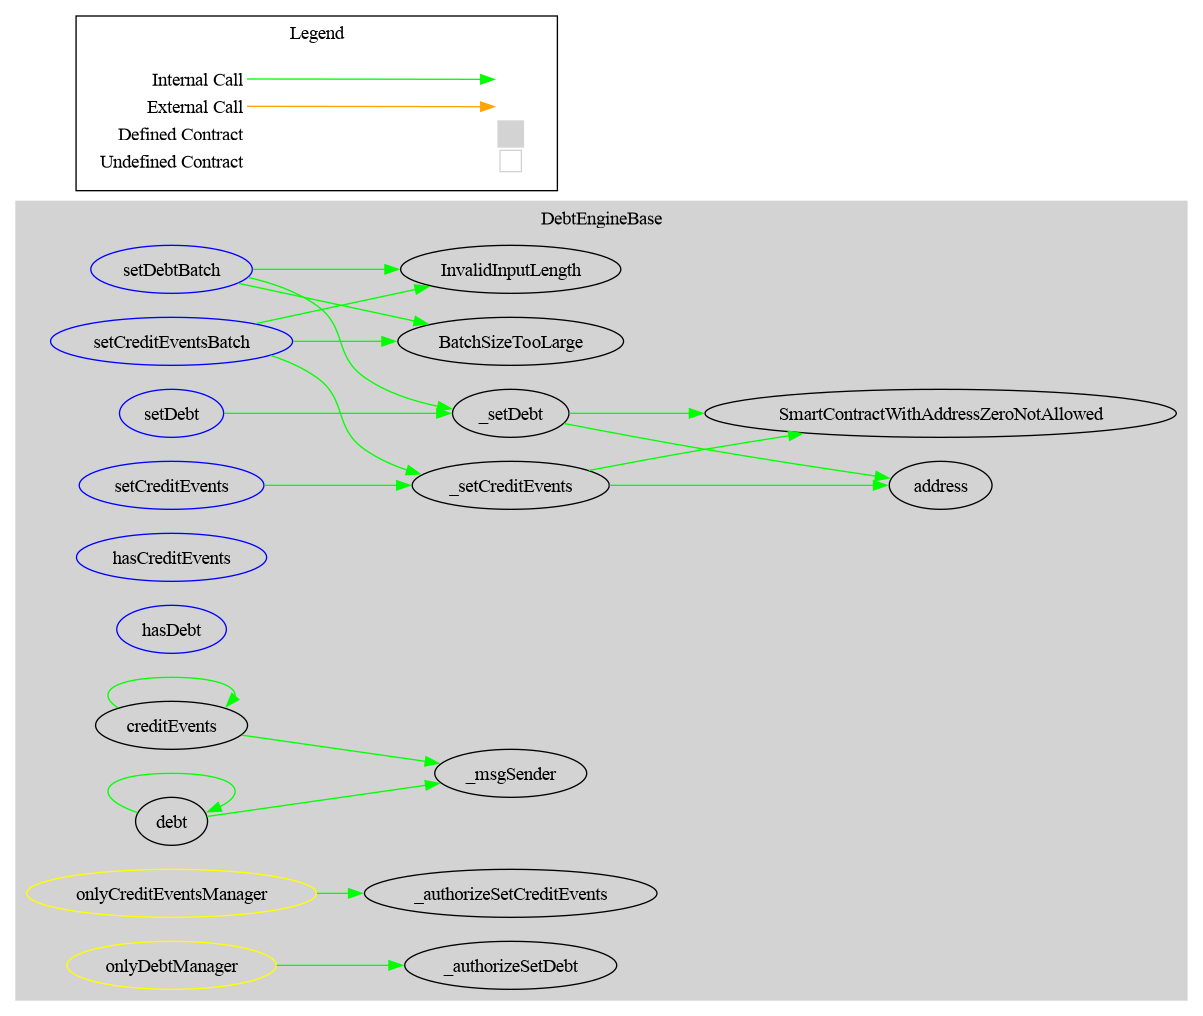
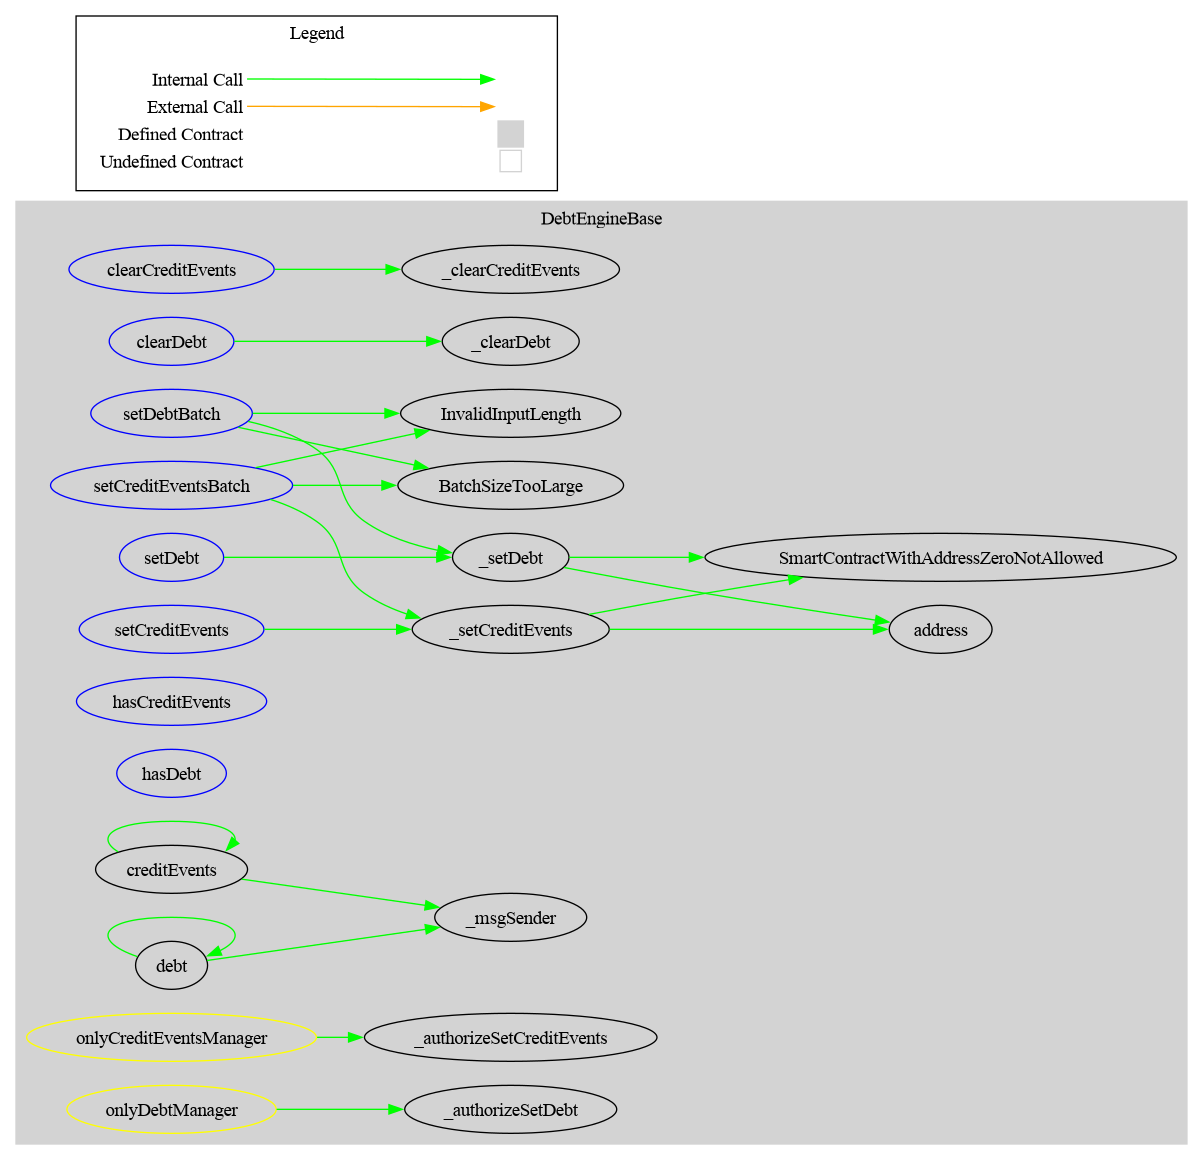
feat: add clearDebt and clearCreditEvents to delete a record and reset its has flag

diff --git a/README.md b/README.md
@@ -74,17 +74,19 @@ The DebtEngine uses a layered architecture:
 | `debt(address)` | Public | Public | Returns debt for a specific contract |
 | `creditEvents()` | External | Public | Returns credit events for the caller's contract |
 | `creditEvents(address)` | Public | Public | Returns credit events for a specific contract |
-| `hasDebt(address)` | External | Public | Returns true if debt has been explicitly set |
-| `hasCreditEvents(address)` | External | Public | Returns true if credit events have been explicitly set |
+| `hasDebt(address)` | External | Public | Returns true if a debt record is currently set (false again after `clearDebt`) |
+| `hasCreditEvents(address)` | External | Public | Returns true if credit events are currently set (false again after `clearCreditEvents`) |
 | `setDebt(address, DebtInformation)` | External | Authorized | Set debt for a contract |
 | `setCreditEvents(address, CreditEvents)` | External | Authorized | Set credit events for a contract |
 | `setDebtBatch(address[], DebtInformation[])` | External | Authorized | Set debt for multiple contracts (at most `MAX_BATCH_SIZE`) |
 | `setCreditEventsBatch(address[], CreditEvents[])` | External | Authorized | Set credit events for multiple contracts (at most `MAX_BATCH_SIZE`) |
+| `clearDebt(address)` | External | Authorized | Delete the debt record of a contract; `hasDebt` returns false and `debt` returns the zero struct |
+| `clearCreditEvents(address)` | External | Authorized | Delete the credit events of a contract; `hasCreditEvents` returns false and `creditEvents` returns the zero struct |
 | `MAX_BATCH_SIZE()` | Public | Public | Hard ceiling on batch entries (500) |
 | `version()` | Public | Public | Contract version (`"0.3.0"`) |
 | `supportsInterface(bytes4)` | Public | Public | ERC-165: `IAccessControlEnumerable` / `IAccessControl` (RBAC variant), ERC-173 (Ownable variant), ERC-165 |
 
-All public and external functions are `virtual`. Every write goes through one internal function per record type (`_setDebt`, `_setCreditEvents`), which rejects `address(0)`, stores the record, sets the `has*` flag and emits the event.
+All public and external functions are `virtual`. Every write goes through one internal function per record type (`_setDebt`, `_setCreditEvents`), which rejects `address(0)`, stores the record, sets the `has*` flag and emits the event. Every delete goes through `_clearDebt` / `_clearCreditEvents`, which removes the record and its `has*` flag and emits the `*Cleared` event; clearing a contract that has no record succeeds and still emits the event. A CMTAT token pointing at the engine reads an empty record after a clear, the same as before its record was set.
 
 > **Batch size in practice:** `MAX_BATCH_SIZE` is a ceiling, not a target. Each entry writes its whole struct to storage. In the test suite a debt record with typical strings costs about 400k gas and a short credit-events record about 71k, so under the Ethereum mainnet per-transaction cap of 16,777,216 gas (EIP-7825) a batch holds roughly 40 debt records or 230 credit-events records. Estimate gas for your actual data before sending a batch.
 
@@ -94,6 +96,8 @@ All public and external functions are `virtual`. Every write goes through one in
 | --- | --- |
 | `DebtSet(address indexed smartContract)` | Debt is set or updated for a contract |
 | `CreditEventsSet(address indexed smartContract)` | Credit events are set or updated for a contract |
+| `DebtCleared(address indexed smartContract)` | The debt record of a contract is deleted |
+| `CreditEventsCleared(address indexed smartContract)` | The credit events of a contract are deleted |
 
 ## Access Control
 
@@ -101,8 +105,8 @@ Authorization is pluggable via two `internal view virtual` hooks (`_authorizeSet
 
 | Capability | Functions | Hook | `DebtEngineAccessControl` | `DebtEngineOwnable` |
 | --- | --- | --- | --- | --- |
-| Debt management | `setDebt`, `setDebtBatch` | `_authorizeSetDebt` | `DEBT_MANAGER_ROLE` (or `DEFAULT_ADMIN_ROLE`) | owner |
-| Credit-events management | `setCreditEvents`, `setCreditEventsBatch` | `_authorizeSetCreditEvents` | `CREDIT_EVENTS_MANAGER_ROLE` (or `DEFAULT_ADMIN_ROLE`) | owner |
+| Debt management | `setDebt`, `setDebtBatch`, `clearDebt` | `_authorizeSetDebt` | `DEBT_MANAGER_ROLE` (or `DEFAULT_ADMIN_ROLE`) | owner |
+| Credit-events management | `setCreditEvents`, `setCreditEventsBatch`, `clearCreditEvents` | `_authorizeSetCreditEvents` | `CREDIT_EVENTS_MANAGER_ROLE` (or `DEFAULT_ADMIN_ROLE`) | owner |
 
 The variant is chosen at deployment: the two contracts are not interchangeable at a deployed address, and the policy cannot be swapped afterwards. The pattern makes access control pluggable, not more decentralised: a single admin or owner key can still rewrite every debt and credit-event record.
 
@@ -194,8 +198,12 @@ This interface can be found in [CMTAT/contracts/interfaces/engine/IDebtEngine.so
 | └ | setCreditEvents | External ❗ | 🛑  | onlyCreditEventsManager |
 | └ | setCreditEventsBatch | External ❗ | 🛑  | onlyCreditEventsManager |
 | └ | setDebtBatch | External ❗ | 🛑  | onlyDebtManager |
+| └ | clearDebt | External ❗ | 🛑  | onlyDebtManager |
+| └ | clearCreditEvents | External ❗ | 🛑  | onlyCreditEventsManager |
 | └ | _setDebt | Internal 🔒 | 🛑  | |
 | └ | _setCreditEvents | Internal 🔒 | 🛑  | |
+| └ | _clearDebt | Internal 🔒 | 🛑  | |
+| └ | _clearCreditEvents | Internal 🔒 | 🛑  | |
 | └ | _authorizeSetDebt | Internal 🔒 |   | |
 | └ | _authorizeSetCreditEvents | Internal 🔒 |   | |
 | └ | _msgSender | Internal 🔒 |   | |

diff --git a/AGENTS.md b/AGENTS.md
@@ -29,7 +29,7 @@
 > - **Exception: tests.** `test/` is never deployed and exists to serve the suite, so a pointer to the page explaining what a test stands in for is useful and costs nothing.
 > - **Exception: official audits by an audit company**, cited by **bare filename and finding ID** (e.g. `Halborn-2024-Q3.pdf` H-03, `OpenZeppelin-audit.md` M-2). An external audit is an immutable historical record, the bare filename survives the file being moved, and the ID gives a reviewer context a comment cannot restate. Never cite it by path.
 > - **The audit exception does not cover AI-assisted reviews.** A report written with an AI assistant is a working document that is rewritten as the code changes, not a record; treat it like any other documentation. Agent guides (`CLAUDE.md` / `AGENTS.md`), changelogs and audit overviews may cite these reports freely: they are not deployed.
-> - **The link between code and AI findings lives in `doc/tools/CLAUDE_ANALYSIS_SUMMARY.md`**, next to the project's tool reports. Whenever an AI-assisted finding changes production code, or explains why it must not change, add an entry there instead of a citation in the comment: the `file:line` and symbol, the code line, the comment (before and after if a citation was removed), the finding with its **report, release, ID and title** (IDs restart each release), and the change applied. Keep the line numbers current when a symbol moves. The file does not exist yet: **create it with its first entry**, never as an empty placeholder.
+> - **The link between code and AI findings lives in [`doc/tools/CLAUDE_ANALYSIS_SUMMARY.md`](./doc/tools/CLAUDE_ANALYSIS_SUMMARY.md)**, next to the project's tool reports. Whenever an AI-assisted finding changes production code, or explains why it must not change, add an entry there instead of a citation in the comment: the `file:line` and symbol, the code line, the comment (before and after if a citation was removed), the finding with its **report, release, ID and title** (IDs restart each release), and the change applied. Keep the line numbers current when a symbol moves.
 
 ## What this project is
 
@@ -41,8 +41,9 @@ DebtEngine is an external engine for the [CMTAT](https://github.com/CMTA/CMTAT) 
 - **`DebtEngineAccessControl`** (RBAC, OpenZeppelin `AccessControlEnumerable`): roles `DEBT_MANAGER_ROLE` and `CREDIT_EVENTS_MANAGER_ROLE`; `hasRole` is overridden so `DEFAULT_ADMIN_ROLE` implicitly holds every role (this implicit membership is not listed by `getRoleMember*`). Constructor rejects a zero `admin`.
 - **`DebtEngineOwnable`** (OpenZeppelin `Ownable2Step`): the owner is the only writer for both debt and credit events; ownership transfer requires `acceptOwnership` by the new owner.
 - **ERC-2771 meta-transactions:** only the deployment contracts inherit `ERC2771Context`; the base defines a virtual `_msgSender()` returning `msg.sender`. The forwarder is set in the constructor and is **immutable**; `address(0)` disables it.
-- **Getters:** `debt()` / `creditEvents()` (for the caller), `debt(address)` / `creditEvents(address)`, and `hasDebt(address)` / `hasCreditEvents(address)` to distinguish "never set" from "set to empty".
+- **Getters:** `debt()` / `creditEvents()` (for the caller), `debt(address)` / `creditEvents(address)`, and `hasDebt(address)` / `hasCreditEvents(address)`, which mean "currently set" (true after a set, false again after a clear) and distinguish "no record" from "set to empty".
 - **Setters:** `setDebt`, `setCreditEvents`, `setDebtBatch`, `setCreditEventsBatch`; all writes go through `_setDebt` / `_setCreditEvents` (zero-address check, write, `has*` flag, event) — never write the mappings or emit `DebtSet` / `CreditEventsSet` anywhere else; batches capped by `MAX_BATCH_SIZE = 500` (a ceiling: the mainnet per-transaction gas cap binds first) and require equal array lengths.
+- **Clear:** `clearDebt` / `clearCreditEvents` delete a record and its `has*` flag only through `_clearDebt` / `_clearCreditEvents`, which emit `DebtCleared` / `CreditEventsCleared`; gated by the same hooks as the setters; clearing an unset record succeeds.
 - **Errors** live in `DebtEngineInvariantStorage` (abstract).
 - **Version:** `version()` comes from `VersionModule`, inherited by `DebtEngineBase` (there is no public `VERSION` getter).
 - **Not upgradeable:** plain constructor deployment, no proxy.

diff --git a/CLAUDE.md b/CLAUDE.md
@@ -29,7 +29,7 @@
 > - **Exception: tests.** `test/` is never deployed and exists to serve the suite, so a pointer to the page explaining what a test stands in for is useful and costs nothing.
 > - **Exception: official audits by an audit company**, cited by **bare filename and finding ID** (e.g. `Halborn-2024-Q3.pdf` H-03, `OpenZeppelin-audit.md` M-2). An external audit is an immutable historical record, the bare filename survives the file being moved, and the ID gives a reviewer context a comment cannot restate. Never cite it by path.
 > - **The audit exception does not cover AI-assisted reviews.** A report written with an AI assistant is a working document that is rewritten as the code changes, not a record; treat it like any other documentation. Agent guides (`CLAUDE.md` / `AGENTS.md`), changelogs and audit overviews may cite these reports freely: they are not deployed.
-> - **The link between code and AI findings lives in `doc/tools/CLAUDE_ANALYSIS_SUMMARY.md`**, next to the project's tool reports. Whenever an AI-assisted finding changes production code, or explains why it must not change, add an entry there instead of a citation in the comment: the `file:line` and symbol, the code line, the comment (before and after if a citation was removed), the finding with its **report, release, ID and title** (IDs restart each release), and the change applied. Keep the line numbers current when a symbol moves. The file does not exist yet: **create it with its first entry**, never as an empty placeholder.
+> - **The link between code and AI findings lives in [`doc/tools/CLAUDE_ANALYSIS_SUMMARY.md`](./doc/tools/CLAUDE_ANALYSIS_SUMMARY.md)**, next to the project's tool reports. Whenever an AI-assisted finding changes production code, or explains why it must not change, add an entry there instead of a citation in the comment: the `file:line` and symbol, the code line, the comment (before and after if a citation was removed), the finding with its **report, release, ID and title** (IDs restart each release), and the change applied. Keep the line numbers current when a symbol moves.
 
 ## What this project is
 
@@ -41,8 +41,9 @@ DebtEngine is an external engine for the [CMTAT](https://github.com/CMTA/CMTAT) 
 - **`DebtEngineAccessControl`** (RBAC, OpenZeppelin `AccessControlEnumerable`): roles `DEBT_MANAGER_ROLE` and `CREDIT_EVENTS_MANAGER_ROLE`; `hasRole` is overridden so `DEFAULT_ADMIN_ROLE` implicitly holds every role (this implicit membership is not listed by `getRoleMember*`). Constructor rejects a zero `admin`.
 - **`DebtEngineOwnable`** (OpenZeppelin `Ownable2Step`): the owner is the only writer for both debt and credit events; ownership transfer requires `acceptOwnership` by the new owner.
 - **ERC-2771 meta-transactions:** only the deployment contracts inherit `ERC2771Context`; the base defines a virtual `_msgSender()` returning `msg.sender`. The forwarder is set in the constructor and is **immutable**; `address(0)` disables it.
-- **Getters:** `debt()` / `creditEvents()` (for the caller), `debt(address)` / `creditEvents(address)`, and `hasDebt(address)` / `hasCreditEvents(address)` to distinguish "never set" from "set to empty".
+- **Getters:** `debt()` / `creditEvents()` (for the caller), `debt(address)` / `creditEvents(address)`, and `hasDebt(address)` / `hasCreditEvents(address)`, which mean "currently set" (true after a set, false again after a clear) and distinguish "no record" from "set to empty".
 - **Setters:** `setDebt`, `setCreditEvents`, `setDebtBatch`, `setCreditEventsBatch`; all writes go through `_setDebt` / `_setCreditEvents` (zero-address check, write, `has*` flag, event) — never write the mappings or emit `DebtSet` / `CreditEventsSet` anywhere else; batches capped by `MAX_BATCH_SIZE = 500` (a ceiling: the mainnet per-transaction gas cap binds first) and require equal array lengths.
+- **Clear:** `clearDebt` / `clearCreditEvents` delete a record and its `has*` flag only through `_clearDebt` / `_clearCreditEvents`, which emit `DebtCleared` / `CreditEventsCleared`; gated by the same hooks as the setters; clearing an unset record succeeds.
 - **Errors** live in `DebtEngineInvariantStorage` (abstract).
 - **Version:** `version()` comes from `VersionModule`, inherited by `DebtEngineBase` (there is no public `VERSION` getter).
 - **Not upgradeable:** plain constructor deployment, no proxy.

diff --git a/doc/tools/v0.3.0/CLAUDE_ANALYSIS.md b/doc/tools/v0.3.0/CLAUDE_ANALYSIS.md
@@ -34,7 +34,7 @@ Baseline: `forge build` and `forge test` green at the start, **69 tests**. End: 
 | G-3 | Agent guide: stale attribute-order rule; tool-report paths | ✅ |
 | G-4 | Production-source reference scan; NatSpec length | ⬜ nothing found |
 | H-1 | `MAX_BATCH_SIZE = 500` is unreachable under the mainnet transaction gas cap | ✅ documented; value → Outstanding |
-| H-2 | A record can never be removed; `hasDebt` stays `true` forever | ⬜ decide → U-1 |
+| H-2 | A record can never be removed; `hasDebt` stays `true` forever | ✅ fixed by U-1 |
 | H-3 | Renouncing ownership / admin freezes all records | ⬜ keep, documented |
 | H-4 | `debt()` / `creditEvents()` answer for `_msgSender()`, so a forwarder can query any token | ⬜ keep (the data is public anyway) |
 | I-1 | Interface granularity (`IDebtEngine`) | ⬜ nothing found |
@@ -43,18 +43,17 @@ Baseline: `forge build` and `forge test` green at the start, **69 tests**. End: 
 | K-1 | Missing tests: batch-size guard, boundaries, forwarder, length direction | ✅ 35 tests added |
 | L-1 | Braceless control-flow bodies | ⬜ none found |
 | M-1 | `if`/`revert` guards | ✅ 9 converted to `require(cond, Error())` |
-| U-1 | No way to clear a record | ⬜ decide (Outstanding) |
+| U-1 | No way to clear a record | ✅ `clearDebt` / `clearCreditEvents` added |
 | U-2 | No enumeration of the tokens that have a record | ⬜ leave |
 | U-3 | No guidance on a batch size that fits in one transaction | ✅ documented (H-1) |
 
-29 rows: 12 ✅, 17 ⬜.
+29 rows: 14 ✅, 15 ⬜.
 
 ## Outstanding
 
 | ID | Item | Why it is still open |
 |---|---|---|
 | H-1 | Lower `MAX_BATCH_SIZE`, or keep 500 as a chain-agnostic ceiling | A design choice: 500 is harmless (an oversized batch runs out of gas and reverts), but a value near the mainnet limit (about 40 debt records) would catch mistakes earlier on mainnet and be wrong on chains with other caps. |
-| U-1 | Add `clearDebt` / `clearCreditEvents` | Changes the ABI and the meaning of `hasDebt`; needs a product decision (see U-1). |
 | — | Slither report in `doc/tools/v0.3.0/slither-report.md` predates this review | Slither cannot run on the review machine (`ModuleNotFoundError: No module named 'slither'`); re-run it after reinstalling. The Aderyn report was regenerated. |
 
 ## A. Loops and iteration
@@ -278,7 +277,7 @@ Actors: the deployer (admin or owner, forwarder), the debt manager and credit-ev
 
 | ID | Actor | Journey step | What they must do today | Proposed addition | Verdict |
 |---|---|---|---|---|---|
-| U-1 | Debt / credit-events manager | Retire a token or correct a record set by mistake | Overwrite with an empty struct; `hasDebt` still says `true` | `clearDebt` / `clearCreditEvents` | decide |
+| U-1 | Debt / credit-events manager | Retire a token or correct a record set by mistake | Overwrite with an empty struct; `hasDebt` still says `true` | `clearDebt` / `clearCreditEvents` | ✅ done |
 | U-2 | Indexer | List every token that has a record | Replay `DebtSet` / `CreditEventsSet` from deployment | On-chain enumeration | leave |
 | U-3 | Manager | Size a batch that fits in one transaction | Trial and error against the gas cap | Documentation (H-1) | ✅ done |
 
@@ -312,6 +311,7 @@ Actors: the deployer (admin or owner, forwarder), the debt manager and credit-ev
 6. **Cost, measured:** +599 runtime bytes (`DebtEngineAccessControl` 8,573 → 9,172), +565 (`DebtEngineOwnable`), `forge build --sizes`; both far below EIP-170.
 7. **Test to add:** set → clear → `hasDebt == false`, `debt()` equals the zero struct, event emitted; unauthorized caller rejected in both variants.
 8. **Verdict: decide.** It changes what `hasDebt` means ("currently set" instead of "ever set"), which is a product decision.
+9. **Decision: adopted.** Implemented in `DebtEngineBase` as proposed, with internal delete paths `_clearDebt` / `_clearCreditEvents`; `hasDebt` / `hasCreditEvents` now mean "currently set". Measured cost: +617 runtime bytes (`DebtEngineAccessControl` 8,573 → 9,190), +587 (`DebtEngineOwnable` 7,107 → 7,694). Tests added in the shared suite (both variants) and RBAC role-separation tests. Linked from `doc/tools/CLAUDE_ANALYSIS_SUMMARY.md` S-1.
 
 ### U-2. Enumerating the tokens with a record
 

diff --git a/CHANGELOG.md b/CHANGELOG.md
@@ -68,7 +68,11 @@ Branch: `dev` (not yet released, commit hash to be added on release)
 - Add `VersionModule` (`src/modules/VersionModule.sol`) exposing `version()`
 - Add `DebtSet` and `CreditEventsSet` events on state changes
 - Add zero-address validation on `smartContract_` parameter (`SmartContractWithAddressZeroNotAllowed`)
-- Add `hasDebt(address)` and `hasCreditEvents(address)` view functions
+- Add `hasDebt(address)` and `hasCreditEvents(address)` view functions; they return whether a record is currently set
+- Add `clearDebt(address)` and `clearCreditEvents(address)` to delete a record, with `DebtCleared` / `CreditEventsCleared` events
+  - Use: retire a token, or remove a record written to the wrong address; before this, a record could only be overwritten with an empty struct and `hasDebt` / `hasCreditEvents` stayed `true` forever.
+  - Effect: the record and its `has*` flag are deleted, so `hasDebt` / `hasCreditEvents` return `false` and a CMTAT token pointing at the engine reads an empty record, as before it was set; clearing an unset record succeeds and still emits the event.
+  - Access: gated by the same hooks as the setters (`DEBT_MANAGER_ROLE` / `CREDIT_EVENTS_MANAGER_ROLE`, or the owner); no new storage; runtime bytecode +617 bytes (`DebtEngineAccessControl` 8,573 → 9,190) and +587 bytes (`DebtEngineOwnable` 7,107 → 7,694).
 - Add `MAX_BATCH_SIZE` (500) limit on `setDebtBatch` and `setCreditEventsBatch` (`BatchSizeTooLarge`)
 - `DebtEngineOwnable` advertises ERC-173 (`0x7f5828d0`) and ERC-165 through `supportsInterface`
 
@@ -116,6 +120,7 @@ Branch: `dev` (not yet released, commit hash to be added on release)
 
 - Split tests into a shared abstract suite (`DebtEngineBaseTest`) run against both deployment variants
 - Add `version()` test
+- Add `clearDebt` / `clearCreditEvents` tests in the shared suite (clear, independence from the other record type and other tokens, clear of an unset record, set after clear, unauthorized caller, CMTAT token reads an empty record) and role-separation tests for the RBAC variant
 - Add role-separation tests (`DEBT_MANAGER_ROLE` cannot set credit events and vice versa) and a role-constant test for `DebtEngineAccessControl`
 - Add role-enumeration, implicit-admin-not-enumerated and ERC-165 tests for `DebtEngineAccessControl`
 - Add two-step ownership handover tests for `DebtEngineOwnable`

diff --git a/doc/tools/CLAUDE_ANALYSIS_SUMMARY.md b/doc/tools/CLAUDE_ANALYSIS_SUMMARY.md
@@ -1,0 +1,21 @@
+# AI-assisted findings ↔ production code
+
+This file links findings from AI-assisted reviews (`doc/tools/<version>/CLAUDE_ANALYSIS.md`) to the production code in `src/` they changed or explain. Production comments never cite these reports: their IDs restart each release and their paths move, while a deployed contract's comments cannot be corrected. The substance lives in the NatSpec; the link lives here.
+
+## How to use
+
+- Add one entry per code location whenever an AI-assisted finding changes code in `src/`, or explains why it must not change.
+- Identify a finding by **report, release, ID and title**, since IDs are not stable across releases.
+- Keep `file:line` current when a symbol moves.
+
+## v0.3.0 — `doc/tools/v0.3.0/CLAUDE_ANALYSIS.md`
+
+### S-1. `clearDebt` / `clearCreditEvents` — deleting a record and resetting `hasDebt` / `hasCreditEvents`
+
+| | |
+|---|---|
+| Location | `src/DebtEngineBase.sol:146`, `clearDebt`; `src/DebtEngineBase.sol:155`, `clearCreditEvents`; `src/DebtEngineBase.sol:188`, `_clearDebt` / `_clearCreditEvents`; `src/DebtEngineBase.sol:78`, `hasDebt` / `hasCreditEvents` |
+| Code | `function clearDebt(address smartContract_) external virtual onlyDebtManager {` |
+| Comment now | `@notice Deletes the debt record of smartContract_; hasDebt returns false afterwards and debt(smartContract_) returns the zero struct, as before any record was set.` / `@dev Clearing a contract that has no record succeeds and still emits {DebtCleared}.` (same wording for credit events); `hasDebt`: `@notice Returns true if a debt record is currently set ...` / `@dev True after {setDebt} / {setDebtBatch}, false again after {clearDebt}.` |
+| Finding | `CLAUDE_ANALYSIS.md` (v0.3.0) **U-1**, "Clearing a record" (also resolves **H-2**, "A record can never be removed; `hasDebt` stays `true` forever"): verdict *decide*, adopted |
+| Change applied | Added `clearDebt` / `clearCreditEvents`, internal `_clearDebt` / `_clearCreditEvents`, events `DebtCleared` / `CreditEventsCleared`; gated by the existing `_authorizeSetDebt` / `_authorizeSetCreditEvents` hooks. `hasDebt` / `hasCreditEvents` now mean "currently set" instead of "ever set". No new storage; +617 / +587 runtime bytes. |

diff --git a/doc/surya/surya_report/surya_report_DebtEngineBase.sol.md b/doc/surya/surya_report/surya_report_DebtEngineBase.sol.md
@@ -26,8 +26,12 @@
 | └ | setCreditEvents | External ❗ | 🛑  | onlyCreditEventsManager |
 | └ | setCreditEventsBatch | External ❗ | 🛑  | onlyCreditEventsManager |
 | └ | setDebtBatch | External ❗ | 🛑  | onlyDebtManager |
+| └ | clearDebt | External ❗ | 🛑  | onlyDebtManager |
+| └ | clearCreditEvents | External ❗ | 🛑  | onlyCreditEventsManager |
 | └ | _setDebt | Internal 🔒 | 🛑  | |
 | └ | _setCreditEvents | Internal 🔒 | 🛑  | |
+| └ | _clearDebt | Internal 🔒 | 🛑  | |
+| └ | _clearCreditEvents | Internal 🔒 | 🛑  | |
 | └ | _authorizeSetDebt | Internal 🔒 |   | |
 | └ | _authorizeSetCreditEvents | Internal 🔒 |   | |
 | └ | _msgSender | Internal 🔒 |   | |
